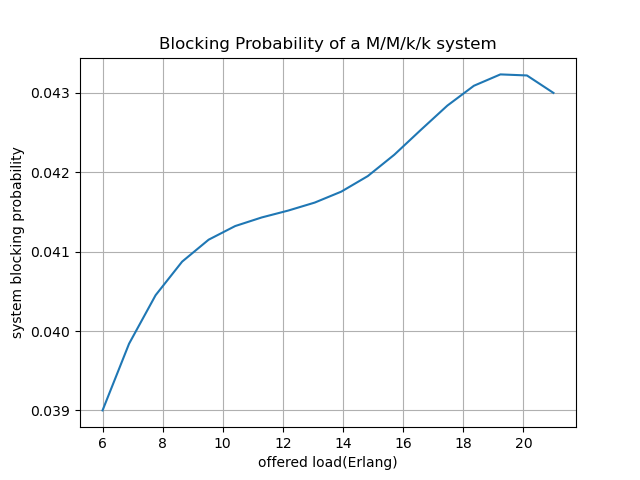
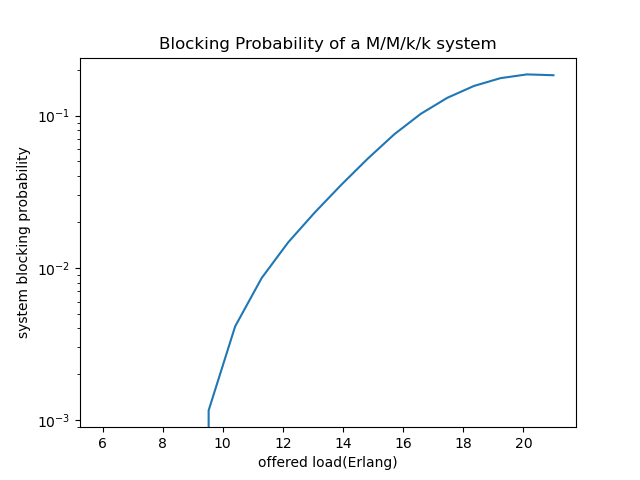
busy server logic fix

diff --git a/main.py b/main.py
@@ -23,30 +23,33 @@ class event_sim:
         block_arrival = [False] * self.maxArrival
         service_finish_time = [0] * self.maxArrival
 
-        current_load = 0
+        
 
         avg_inter_arrival_time = 1/self.avg_arrival
 
+        for i in range(1,self.maxArrival):
+            inter_arrival_time = npr.exponential(avg_inter_arrival_time)
+            arrival_time.append(round(arrival_time[i-1] + inter_arrival_time,4))
+
         
         for i in range(0,self.maxArrival):
-            if i > 0:
-                inter_arrival_time = npr.exponential(avg_inter_arrival_time)
-                arrival_time.append(round(arrival_time[i-1] + inter_arrival_time,4))
-            
             service_duration[i] = round(npr.exponential(1/mu),4)
             service_finish_time[i] = round(arrival_time[i] + service_duration[i],4)
 
-            if i > 0 and service_finish_time[i-1] >= arrival_time[i]:
-                current_load += 1
+
+        for i in range(1,self.maxArrival):
+            current_load = 0
+            for j in range(i,0,-1):
+                if service_finish_time[j] >= arrival_time[i]:
+                    current_load += 1
             no_busy_server[i] = current_load
-            if no_busy_server[i] == int(self.k):
-                no_busy_server[i] = int(self.k)
+            if no_busy_server[i] == self.k:
                 block_arrival[i] = True
                 current_load = 0
                 service_finish_time[i] = 0
-
-
         no_block_arrival = block_arrival.count(True)
+
+        print(no_block_arrival)
 
         return no_block_arrival/self.maxArrival
         
@@ -62,15 +65,19 @@ if __name__ == "__main__":
     system_bpr = []
 
     mu = 1
-    simulation = event_sim(2000, k, k)#first simulation uses k as offered load value
+    simulation = event_sim(900, k, k)#first simulation uses k as offered load value
 
     offered_load.append(k)
     system_bpr.append(simulation.result())
 
-    for event in range (k-3,3,-3): #run 5 simulations decreasing offered load by 3 each time
+    it = 100
+
+    for event in range (k-3,3,-3): #run 5 simulations decreasing offered load(lambda) by 3 each time
+        simulation.maxArrival = 900 + it
         simulation.avg_arrival = event
         offered_load.append(event)
         system_bpr.append(simulation.result())
+        it = it + 100
 
     offered_load = offered_load[::-1]
 
@@ -91,7 +98,9 @@ if __name__ == "__main__":
 
     ax.set(xlabel='offered load(Erlang)', ylabel='system blocking probability',
         title="Blocking Probability of a M/M/k/k system")
-    ax.grid()
+
+    ax.set_yscale('log')
+    
 
     fig.savefig("results.png")
     plt.show()
